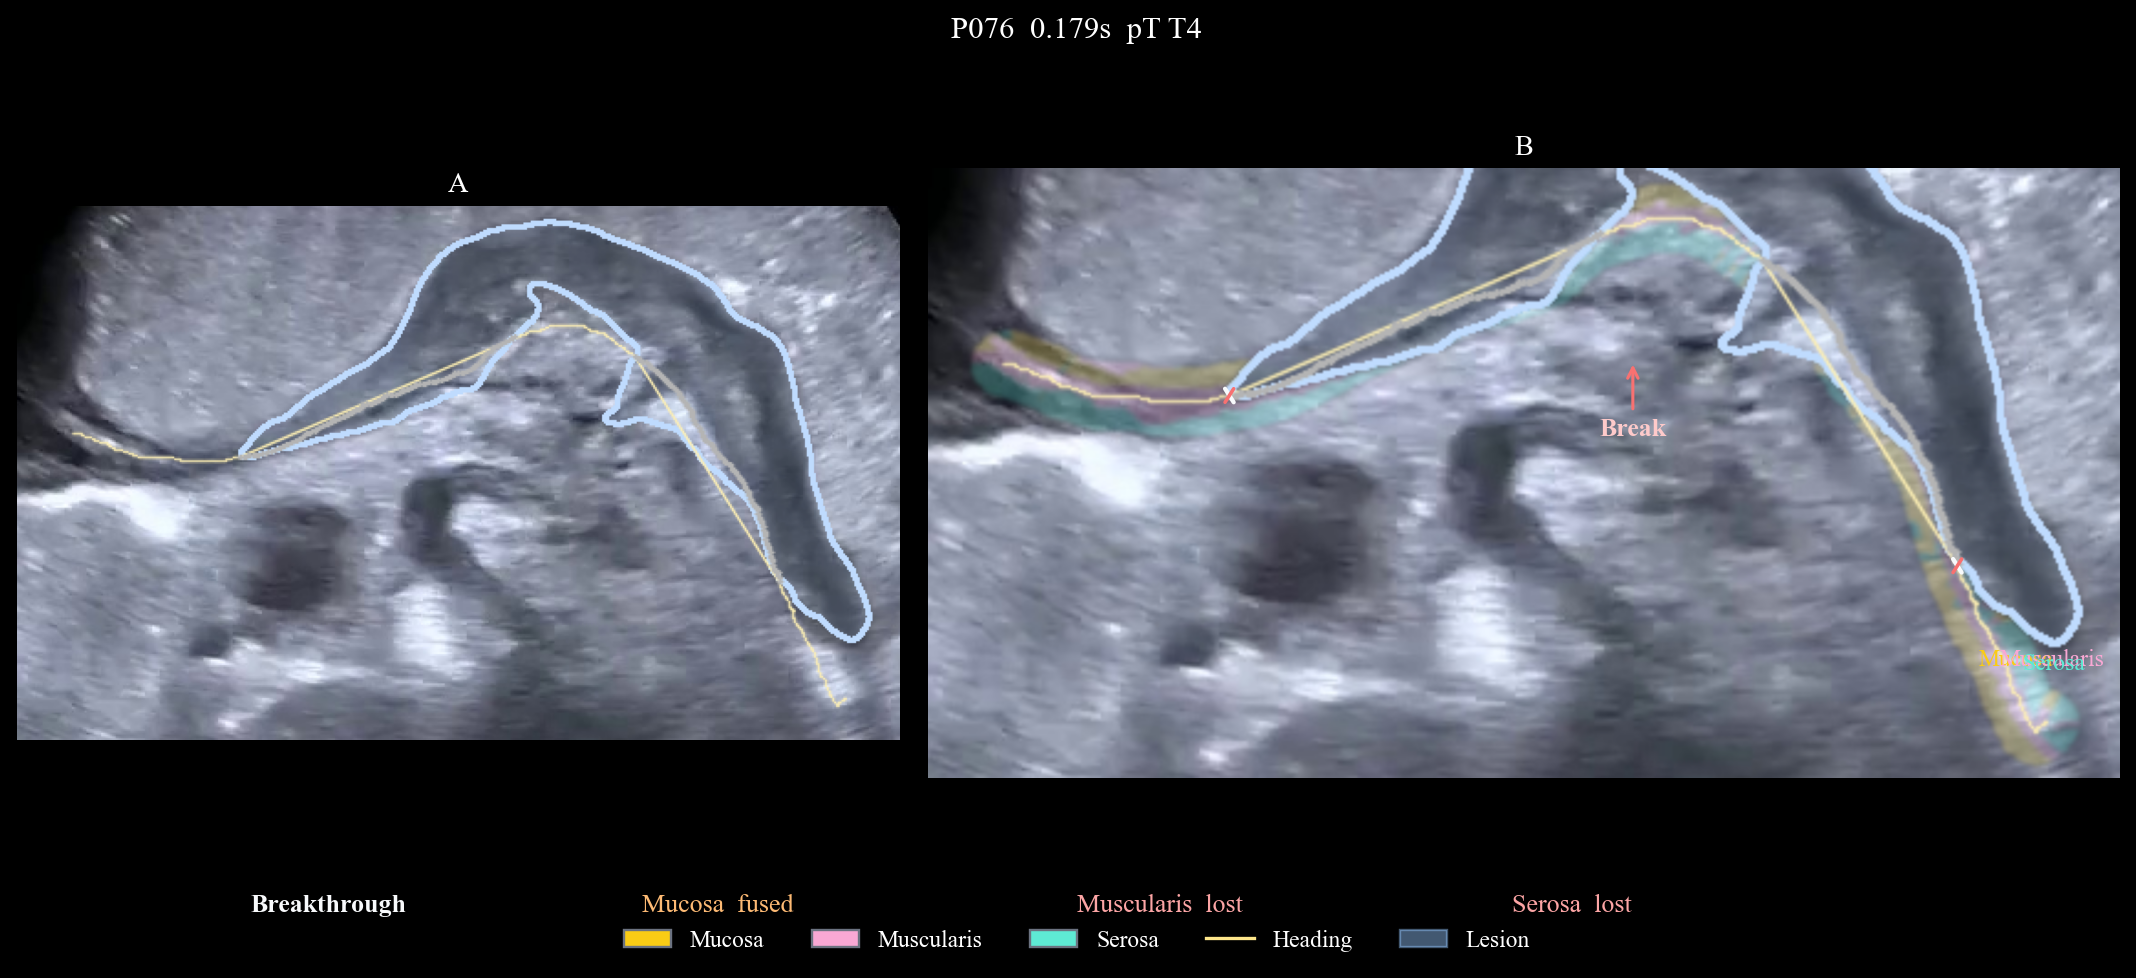
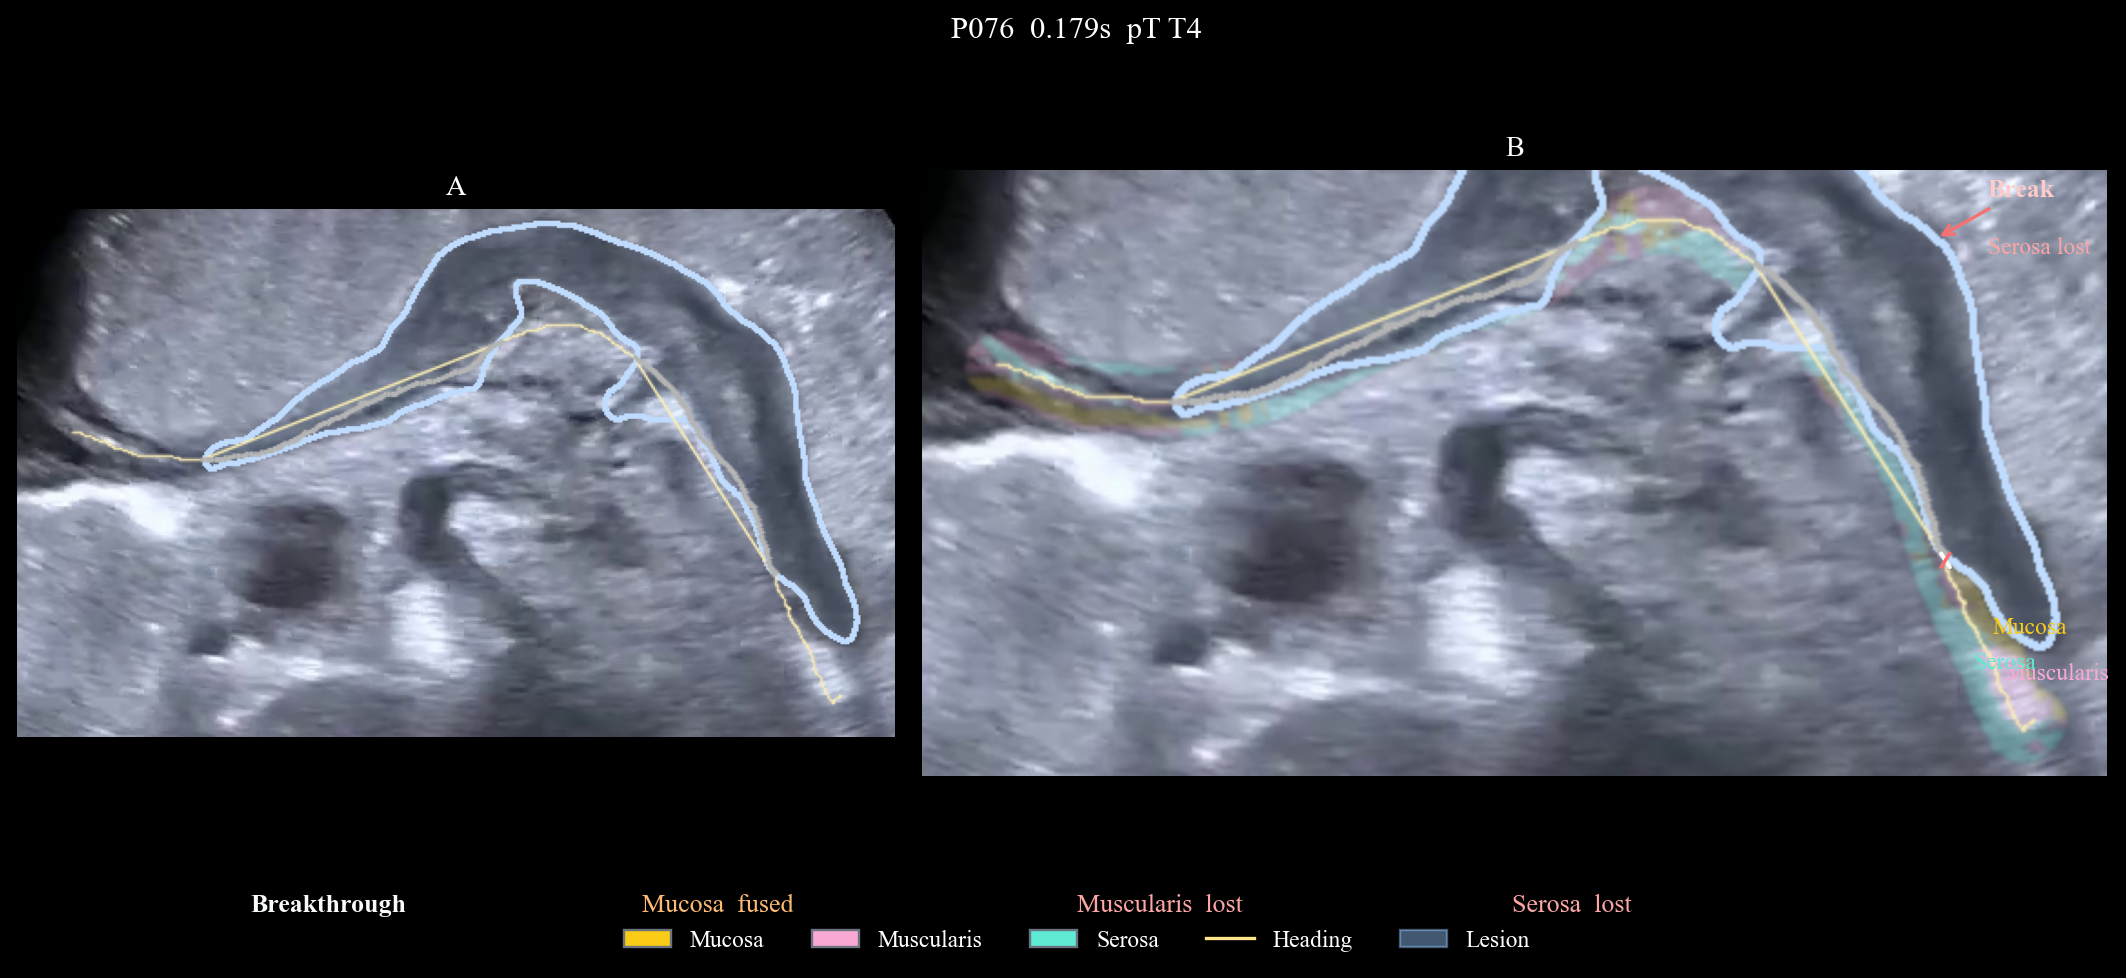
Point the P076 Break mark at the right-hand bulge where serosa is gone.

diff --git a/scripts/render_wall_layer_thin_bands.py b/scripts/render_wall_layer_thin_bands.py
@@ -337,6 +337,30 @@ def vanish_xy(wall: np.ndarray, lesion_mask: np.ndarray) -> tuple[float, float] 
     return float(arr[:, 0].mean()), float(arr[:, 1].mean())
 
 
+def break_xy(wall: np.ndarray, lesion_mask: np.ndarray) -> tuple[float, float] | None:
+    """Right-hand bulge: lesion pixels far from the heading, on the high-x side."""
+    wall = as_xy(wall)
+    if lesion_mask is None or not np.any(lesion_mask):
+        return vanish_xy(wall, lesion_mask)
+    ys, xs = np.where(lesion_mask > 0)
+    if len(xs) < 8:
+        return vanish_xy(wall, lesion_mask)
+    step = max(1, len(xs) // 900)
+    px = xs[::step].astype(np.float32)
+    py = ys[::step].astype(np.float32)
+    right = px >= float(np.quantile(px, 0.62))
+    if int(right.sum()) >= 12:
+        px, py = px[right], py[right]
+    heading = densify_polyline(wall, 3.0) if len(wall) >= 2 else np.zeros((0, 2), dtype=np.float32)
+    if len(heading) >= 2:
+        d2 = (px[:, None] - heading[None, :, 0]) ** 2 + (py[:, None] - heading[None, :, 1]) ** 2
+        score = d2.min(axis=1)
+    else:
+        score = px.copy()
+    idx = int(np.argmax(score))
+    return float(px[idx]), float(py[idx])
+
+
 def wall_strip(rgb: np.ndarray, wall: np.ndarray, pad: int = 22) -> tuple[int, int, int, int]:
     """Keep the full painted stroke, including the right-hand start."""
     h, w = rgb.shape[:2]
@@ -622,8 +646,12 @@ def render_case(meta: dict, seg: RoiSegmenter, out_dir: Path, brush: float) -> d
                 ha="left",
                 va="center",
             )
+    plate = fate_rows(fates)
     cuts = heading_cuts(wall_crop, crop_mask)
-    mid = vanish_xy(wall_crop, crop_mask)
+    mid = break_xy(wall_crop, crop_mask)
+    if cuts:
+        # Keep the right-hand cut; that is the bulge side.
+        cuts = [max(cuts, key=lambda pt: pt[0])]
     for cut in cuts:
         bx, by = to_b(cut[0], cut[1])
         axes[1].plot(
@@ -638,16 +666,26 @@ def render_case(meta: dict, seg: RoiSegmenter, out_dir: Path, brush: float) -> d
         axes[1].annotate(
             "Break",
             xy=to_b(mid[0], mid[1]),
-            xytext=(0, -32),
+            xytext=(22, 18),
             textcoords="offset points",
             color="#fecaca",
             fontsize=11,
             fontname="Times New Roman",
             fontweight="bold",
-            ha="center",
-            arrowprops={"arrowstyle": "->", "color": "#f87171", "lw": 1.3},
+            ha="left",
+            arrowprops={"arrowstyle": "->", "color": "#f87171", "lw": 1.4},
         )
-    plate = fate_rows(fates)
+        if any(en == "Serosa" and status == "lost" for _lab, en, status in plate):
+            axes[1].annotate(
+                "Serosa lost",
+                xy=to_b(mid[0], mid[1]),
+                xytext=(22, -6),
+                textcoords="offset points",
+                color=FATE_HEX["lost"],
+                fontsize=10,
+                fontname="Times New Roman",
+                ha="left",
+            )
 
     handles = [
         Patch(facecolor=LAYER_HEX[lab], edgecolor="#6b7280", label=en)

diff --git a/docs/PROJECT_CHANGELOG.md b/docs/PROJECT_CHANGELOG.md
@@ -2,6 +2,14 @@
 
 This file records material project changes, their validation, and deployment state. Do not add patient identifiers, credentials, tokens, private URLs, or sensitive clinical data.
 
+## 2026-08-29, P076 Break points at the right-hand bulge
+
+- Scope: `scripts/render_wall_layer_thin_bands.py --case P076`.
+- Reason: Break was the heading-in-lesion midpoint. The doctor reading is the right-hand protrusion, where serosa is gone.
+- Key changes: Point Break at the high-x lesion bulge farthest from the heading. Add Serosa lost there when the gray fate says lost. Does not unlock cT.
+- Validation: Offline P076 re-render.
+- Deployment: none (offline figure).
+
 ## 2026-08-29, Public Next deploy after wall-layer figure work
 
 - Scope: `bash scripts/deploy_public_next.sh` (reader-only Next on Aliyun).
